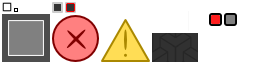
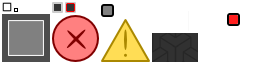
Added file widget

Changed region(s): [[0.8125, 0.1875, 0.9375, 0.4062], [0.375, 0.0625, 0.4688, 0.2812]]

diff --git a/editor/core/src/main/java/es/eucm/ead/editor/view/widgets/FileWidget.java b/editor/core/src/main/java/es/eucm/ead/editor/view/widgets/FileWidget.java
@@ -34,35 +34,52 @@
  *      You should have received a copy of the GNU Lesser General Public License
  *      along with eAdventure.  If not, see <http://www.gnu.org/licenses/>.
  */
-package es.eucm.ead.editor.control.actions;
+package es.eucm.ead.editor.view.widgets;
 
-import es.eucm.ead.editor.view.widgets.Dialog;
-import es.eucm.ead.editor.view.widgets.options.OptionsPanel;
+import com.badlogic.gdx.scenes.scene2d.EventListener;
+import com.badlogic.gdx.scenes.scene2d.ui.ImageButton;
+import com.badlogic.gdx.scenes.scene2d.ui.Skin;
+import com.badlogic.gdx.scenes.scene2d.utils.Drawable;
 
-public class ShowDialog extends EditorAction {
+public class FileWidget extends AbstractWidget {
 
-	public static final String NAME = "showDialog";
+	private FileWidgetStyle style;
 
-	public ShowDialog() {
-		super(NAME, true);
+	private TextField textField;
+
+	private ImageButton button;
+
+	public FileWidget(Skin skin) {
+		style = skin.get(FileWidgetStyle.class);
+		textField = new TextField("", skin);
+		button = new ImageButton(style.selectIcon);
+		addActor(textField);
+		addActor(button);
 	}
 
 	@Override
-	public void perform(Object... args) {
-		Dialog dialog = new Dialog(controller.getEditorAssets().getSkin());
-		dialog.title("Project Settings");
+	public float getPrefWidth() {
+		return getChildrenTotalWidth();
+	}
 
-		OptionsPanel panel = new OptionsPanel(controller.getEditorAssets()
-				.getSkin());
-		panel.string("Title:", "This the title of the game project.", 150);
-		panel.text("Description:", "The description", 150, 5);
-		panel.file("Project folder:",
-				"Where all the project files will be stored");
-		dialog.root(panel);
+	@Override
+	public float getPrefHeight() {
+		return getChildrenMaxHeight();
+	}
 
-		dialog.setSize(dialog.getPrefWidth(), dialog.getPrefHeight());
-		controller.getViews().getRootContainer().addActor(dialog);
+	@Override
+	public void layout() {
+		float buttonWidth = getPrefWidth(button);
+		float textFieldWidth = getWidth() - buttonWidth;
+		textField.setBounds(0, 0, textFieldWidth, getHeight());
+		button.setBounds(textFieldWidth, 0, buttonWidth, getHeight());
+	}
 
-		dialog.center();
+	public void addButtonListener(EventListener listener) {
+		button.addListener(listener);
+	}
+
+	public static class FileWidgetStyle {
+		Drawable selectIcon;
 	}
 }

diff --git a/editor/core/src/main/java/es/eucm/ead/editor/view/widgets/options/OptionsPanel.java b/editor/core/src/main/java/es/eucm/ead/editor/view/widgets/options/OptionsPanel.java
@@ -41,6 +41,7 @@ import com.badlogic.gdx.scenes.scene2d.ui.SelectBox;
 import com.badlogic.gdx.scenes.scene2d.ui.Skin;
 import com.badlogic.gdx.utils.Array;
 import es.eucm.ead.editor.view.widgets.AbstractWidget;
+import es.eucm.ead.editor.view.widgets.FileWidget;
 import es.eucm.ead.editor.view.widgets.TextArea;
 import es.eucm.ead.editor.view.widgets.TextField;
 import es.eucm.ead.editor.view.widgets.options.Option.OptionStyle;
@@ -101,6 +102,14 @@ public class OptionsPanel extends AbstractWidget {
 		return option;
 	}
 
+	public Option file(String label, String tooltip) {
+		final FileWidget fileWidget = new FileWidget(skin);
+		Option option = new Option(label, tooltip, fileWidget,
+				style.optionStyle);
+		addOption(option);
+		return option;
+	}
+
 	protected void addOption(Option option) {
 		options.add(option);
 		addActor(option);
@@ -119,8 +128,10 @@ public class OptionsPanel extends AbstractWidget {
 	@Override
 	public void layout() {
 		float maxLabelWidth = 0;
+		float maxRightWidth = 0;
 		for (Option option : options) {
 			maxLabelWidth = Math.max(maxLabelWidth, option.getLeftPrefWidth());
+			maxRightWidth = Math.max(maxLabelWidth, option.getRightPrefWidth());
 		}
 
 		float y = getHeight();
@@ -129,9 +140,7 @@ public class OptionsPanel extends AbstractWidget {
 			float height = option.getPrefHeight();
 			float width = getWidth();
 			y -= height;
-			option.setBounds(
-					(width - maxLabelWidth - option.getRightWidth()) / 2.0f, y,
-					width, height);
+			option.setBounds(0, y, width, height);
 		}
 	}
 

diff --git a/editor/core/src/main/java/es/eucm/ead/editor/view/widgets/options/Option.java b/editor/core/src/main/java/es/eucm/ead/editor/view/widgets/options/Option.java
@@ -166,15 +166,16 @@ public class Option extends AbstractWidget {
 			tooltipText.setPosition(x, y + height);
 		}
 		// Option
-		width = Math.min(getWidth() - leftWidth, getPrefWidth(option));
+		width = Math.max(getWidth() - leftWidth, getPrefWidth(option))
+				- style.pad * 2;
 		x = leftWidth + style.pad;
 		height = getPrefHeight(option);
 		y = (getHeight() - height) / 2.0f;
 		option.setBounds(x, y, width, height);
 	}
 
-	public float getRightWidth() {
-		return getPrefWidth(option) + style.pad * 2;
+	public float getRightPrefWidth() {
+		return getPrefWidth(option);
 	}
 
 	public static class OptionStyle {
